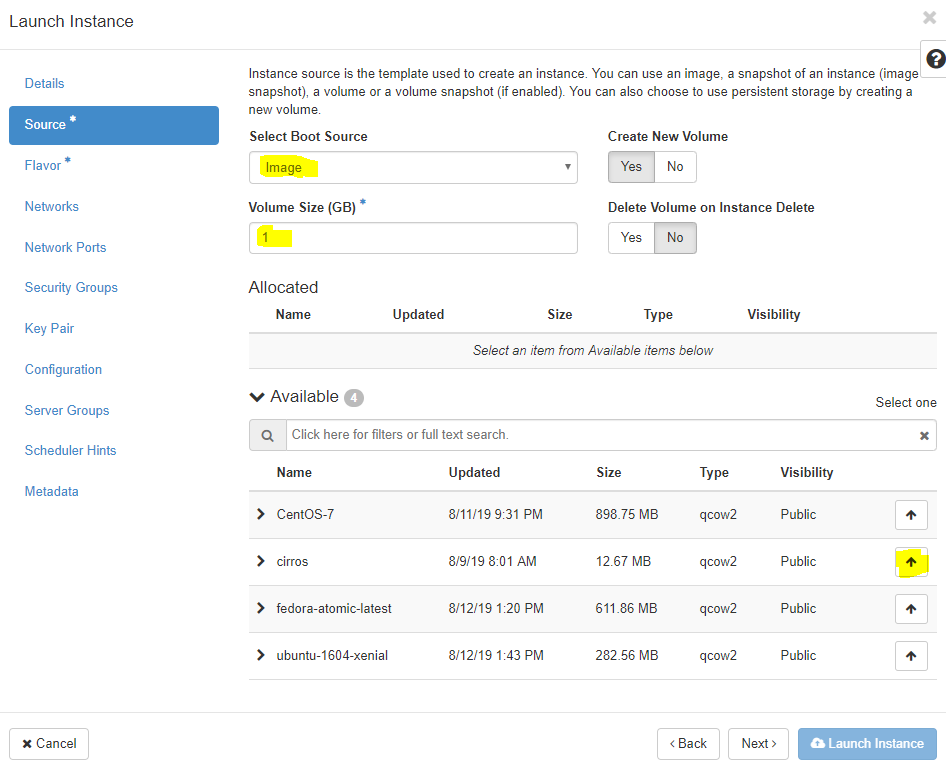
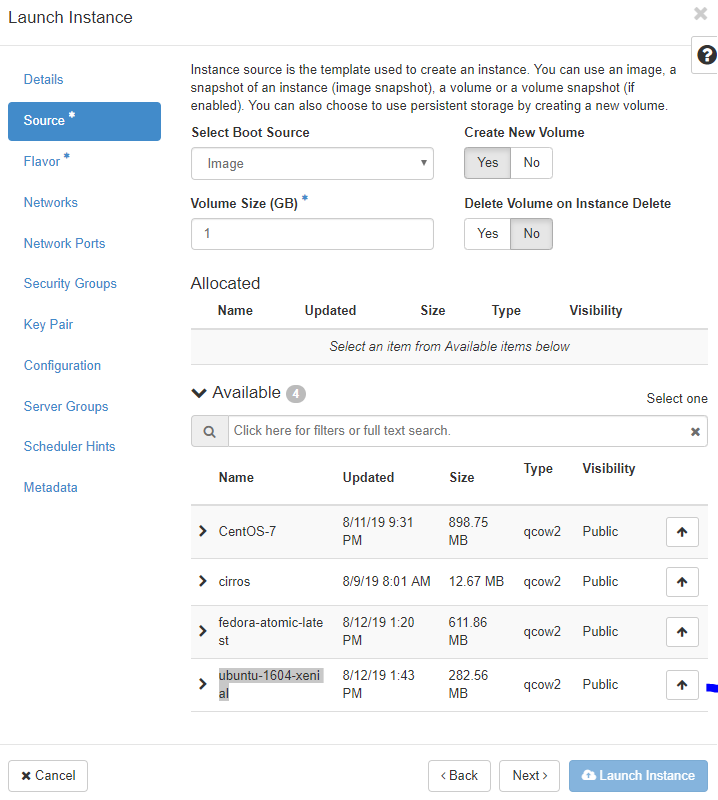
Added a new article about creating a Linux virtual machine in the VENTUS portal

diff --git a/_docs/quickstarts/create-linux-vm-full.md b/_docs/quickstarts/create-linux-vm-full.md
@@ -1,0 +1,70 @@
+---
+title: Creating a new Linux VM 
+description: How to run Linux VM in Ventus Cloud 
+# permalink: /new-Linux-VM/
+---
+
+# Create a Linux virtual machine in the VENTUS portal
+
+VENTUS virtual machines (VMs) can be created through the VENTUS portal. The VENTUS portal is a browser-based user interface to create VMs and their associated resources. This quickstart shows you how to use the VENTUS portal to deploy a Linux virtual machine (VM) running ubuntu-1604-xenial. 
+
+## Sign in to VENTUS
+
+Sign in to the [VENTUS portal](https://cloud.vstack.gam).
+
+## Create SSH key pair
+
+You need an SSH key pair to complete this quickstart. If you already have an SSH key pair, you can skip this step.
+
+On the main Navigation Panal go to **Compute**, choose **Key Pairs** and  click the button **Create key pair**.   
+![](../../assets/img/new-linux-vm/intances0.png)
+
+## Create virtual machine
+
+1. On the main Navigation Panal go to **Compute**, choose **Instances** and  click the button **Launch Instance**.    
+![](../../assets/img/new-linux-vm/intances1.png)
+
+2.  In the **Details** insert the name of the Instance (eg. "VZ1") and click **Next**
+![](../../assets/img/new-linux-vm/intances2.png)
+
+3. Select **Instance Boot Source** (eg. Image), declare **Volume Size (GB)** and choose desired image (eg. ubuntu-1604-xenial) by clicking on arrow. After that click **Next**
+![](../../assets/img/new-linux-vm/intances3.png)
+
+4.  In the **Flavor** choose which one should manage the sizing for the compute, memory and storage capacity of the instance and click on arrow (eg. 1x1). After that click **Next** 
+![](../../assets/img/new-linux-vm/intances4.png)
+
+5. In the **Networks**  you should choose desired networks
+![](../../assets/img/new-linux-vm/intances5.png)
+
+6. Open **Security Groups**, after that, choose **default** and click **Next** 
+![](../../assets/img/new-linux-vm/intances6.png)
+
+7. In the **Key Pairs**  you should choose one from availables or click the button **Create Key Pair**
+
+8. Launch your Instance by clicking on a **Launch Instance**
+
+It will take a few minutes for your VM to be deployed. When the deployment is finished, move on to the next section.
+
+## View the Instance in action
+
+1. You will see "Instances" menu whith your newly created VM
+![](../../assets/img/new-linux-vm/intances7.png)
+
+2. Open the drop-down menu and choose **Console**
+
+3. Click on the black terminal area (to activate access to the console). 
+	
+4. Enter login and password. 
+![](../../assets/img/new-linux-vm/intances8.png)
+
+Now you can type commands. After you finish, type **exit**
+
+## Clean up resources
+
+When no longer needed, you can delete the resource group, virtual machine, and all related resources. To do so, select the resource group for the virtual machine, select **Delete Instances**, then confirm the name of the resource group to delete.
+
+## Next steps
+
+In this quickstart, you deployed a simple virtual machine through the VENTUS portal. To learn more about VENTUS virtual machines, continue to the tutorial for Linux VMs.
+
+
